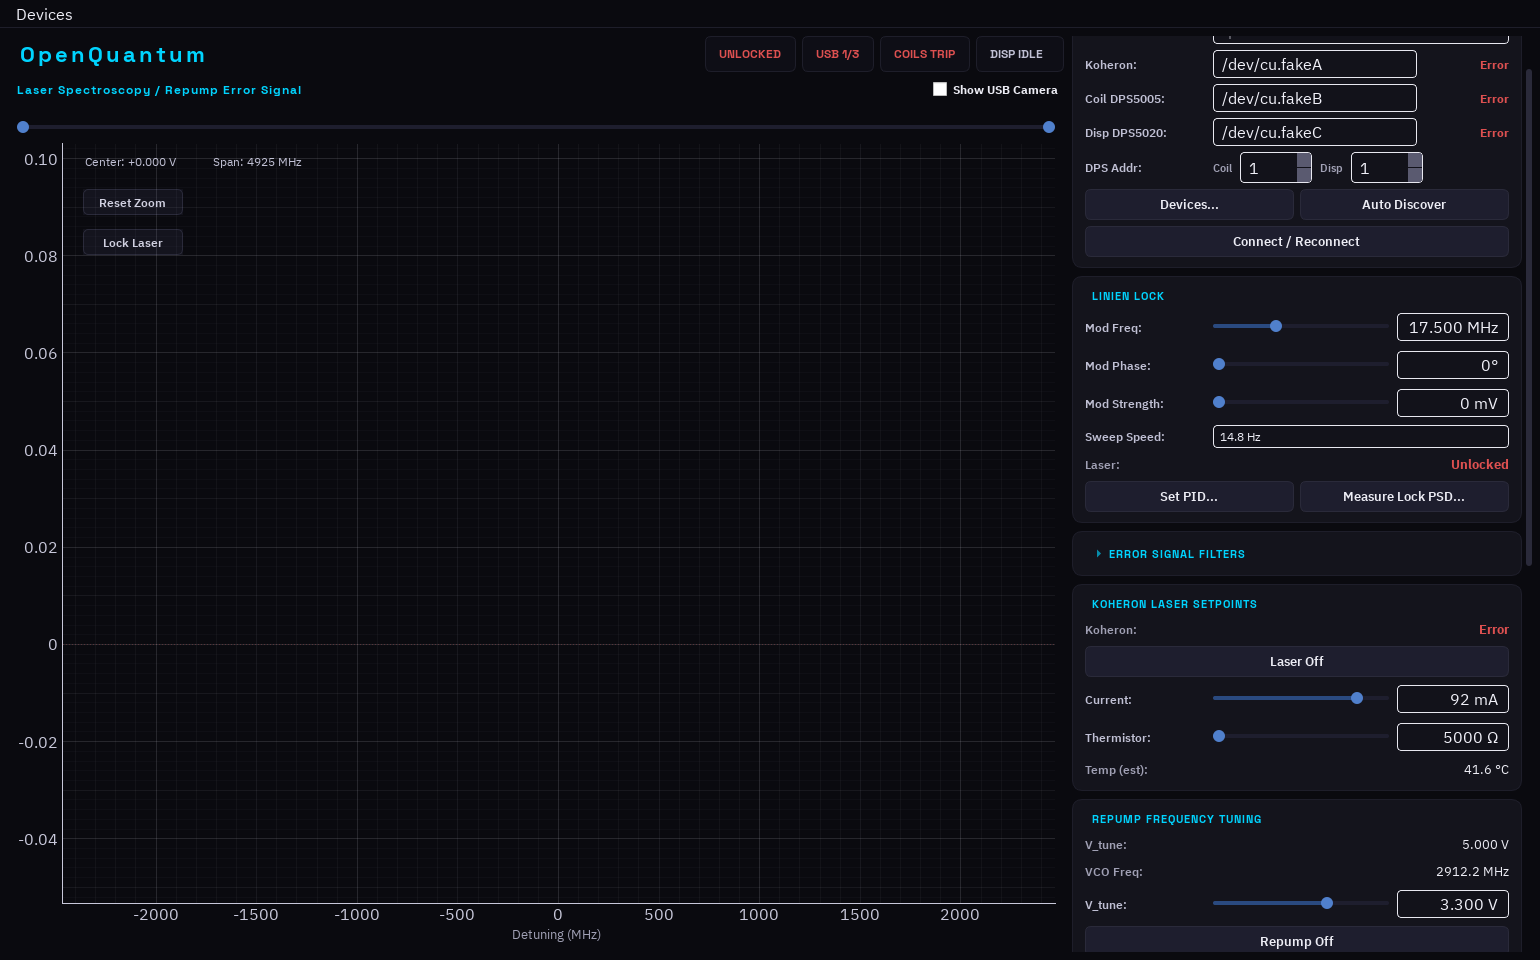
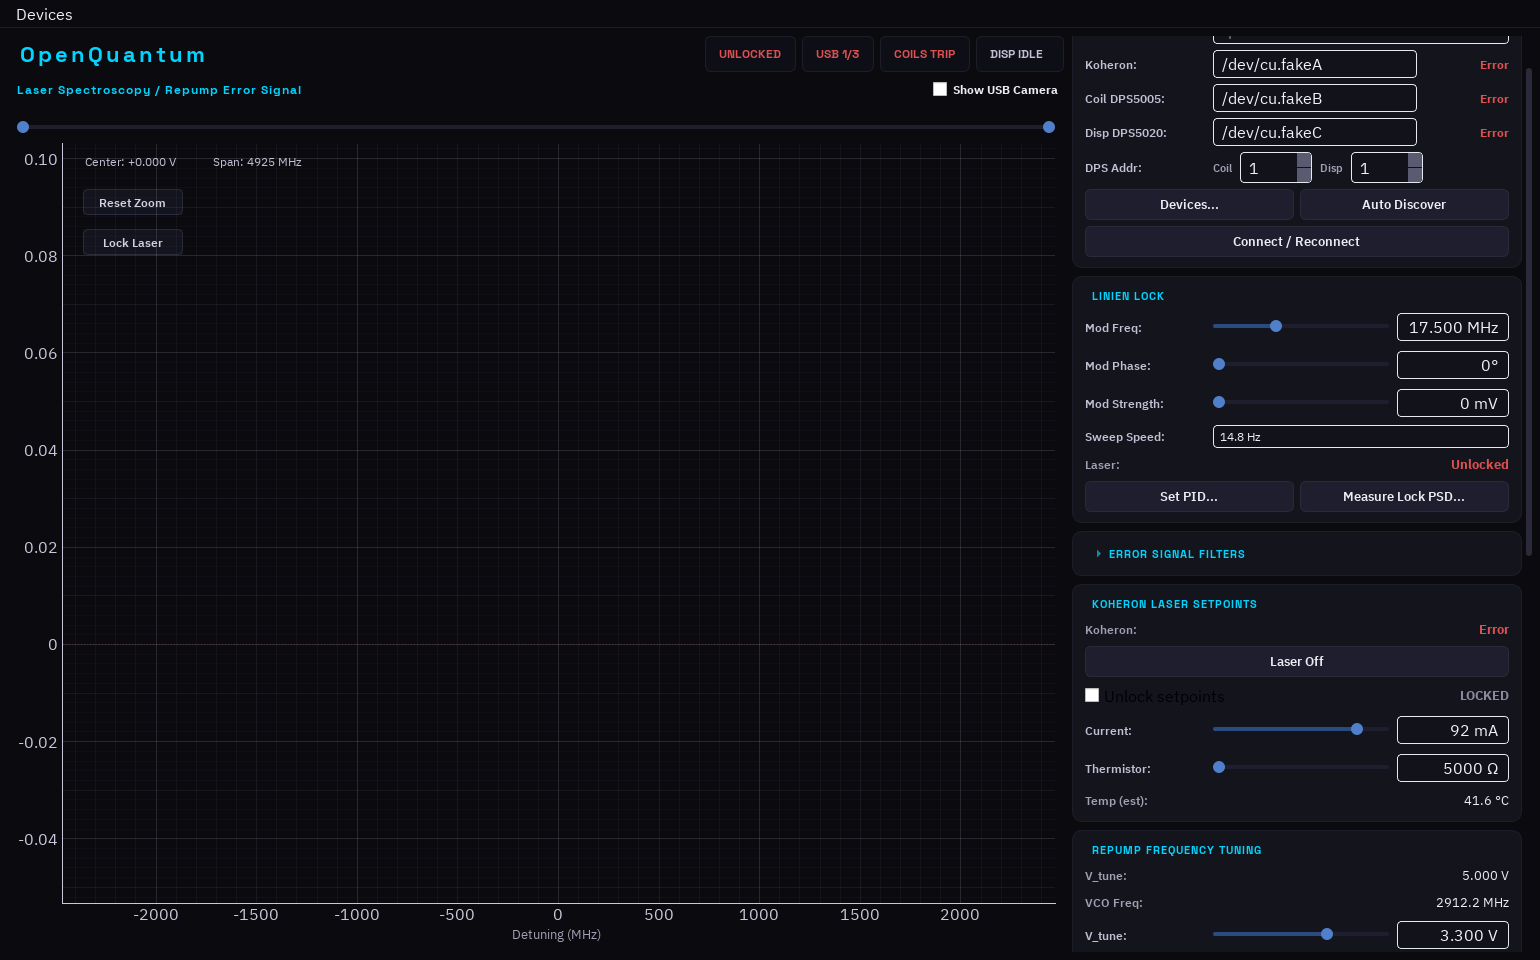
Set thermistor default to 10 kohm and lock the laser setpoints
The 6215 ohm default mapped to 36.2 C through the 10k NTC curve; the
laser is meant to sit near 25-27 C, which is 10 kohm on that curve.
Changing the default only affects fresh QSettings and pushes nothing to
hardware -- an existing saved value still wins until changed.

Laser current and thermistor now start locked every session behind an
explicit unlock toggle, so neither moves on a stray drag. The unlock is
session-only and never persisted.

Edits use setReadOnly rather than setEnabled(False): the value must stay
legible while locked, and disabling them segfaulted Qt on teardown via
the path smoke_ui.py drives at tests/smoke_ui.py:192.

diff --git a/mot_control.py b/mot_control.py
@@ -1842,6 +1842,25 @@ class OpenQuantumControlsWindow(QtWidgets.QMainWindow):
         layout.addWidget(self.laser_btn)
         self._tip("Toggle the laser diode output (lason).", self.laser_btn)
 
+        # The laser runs at a fixed operating point. Both setpoints start
+        # locked every session so neither can be moved by a stray drag;
+        # unlocking is deliberate and is never persisted.
+        lock_row = QtWidgets.QHBoxLayout()
+        lock_row.setSpacing(8)
+        self.laser_unlock_box = QtWidgets.QCheckBox("Unlock setpoints")
+        self.laser_unlock_box.setCursor(QtCore.Qt.PointingHandCursor)
+        self.laser_unlock_box.toggled.connect(self._on_laser_unlock)
+        lock_row.addWidget(self.laser_unlock_box)
+        lock_row.addStretch()
+        self.laser_lock_label = QtWidgets.QLabel()
+        lock_row.addWidget(self.laser_lock_label)
+        layout.addLayout(lock_row)
+        self._tip(
+            "Laser current and thermistor are locked at the operating point.\n"
+            "Tick to enable the sliders for this session only.",
+            self.laser_unlock_box,
+        )
+
         self.current_slider, self.current_edit = add_slider_row(
             layout,
             "Current:",
@@ -1863,7 +1882,9 @@ class OpenQuantumControlsWindow(QtWidgets.QMainWindow):
             "Thermistor:",
             5000,
             15000,
-            self._int_setting("laser/thermistor_ohm", 6215, 5000, 15000),
+            # 10 k on the 10 k NTC curve is 25 C, the intended operating point.
+            # The previous 6215 default sat at 36 C.
+            self._int_setting("laser/thermistor_ohm", 10000, 5000, 15000),
             single=1,
             page=50,
             suffix=" \N{OHM SIGN}",
@@ -1877,6 +1898,7 @@ class OpenQuantumControlsWindow(QtWidgets.QMainWindow):
         )
         self.therm_temp_readback = add_readout_row(layout, "Temp (est):", "--")
         self._update_therm_temp(self.therm_slider.value())
+        self._apply_laser_lock(False)
         self._tip(
             "Setpoint converted with the 10 k NTC Steinhart-Hart curve\n"
             "(estimate, not a measurement).",
@@ -2501,6 +2523,24 @@ class OpenQuantumControlsWindow(QtWidgets.QMainWindow):
         worker = getattr(self, "laser_worker", None)
         if worker is not None:
             worker.set_thermistor(value)
+
+    def _apply_laser_lock(self, unlocked):
+        """Enable or disable the laser setpoint controls and update the badge."""
+        for slider in (self.current_slider, self.therm_slider):
+            slider.setEnabled(unlocked)
+        # Read-only rather than disabled: the value must stay legible when
+        # locked, and disabling these edits segfaults Qt on teardown.
+        for edit in (self.current_edit, self.therm_edit):
+            edit.setReadOnly(not unlocked)
+        self._set_colored_text(
+            self.laser_lock_label,
+            "UNLOCKED" if unlocked else "LOCKED",
+            "#ff9f40" if unlocked else "#8a8aa0",
+        )
+
+    def _on_laser_unlock(self, unlocked):
+        self._apply_laser_lock(unlocked)
+        self._event_log.log("laser_setpoints_unlocked", unlocked=bool(unlocked))
 
     def _update_therm_temp(self, ohms):
         self.therm_temp_readback.setText(
